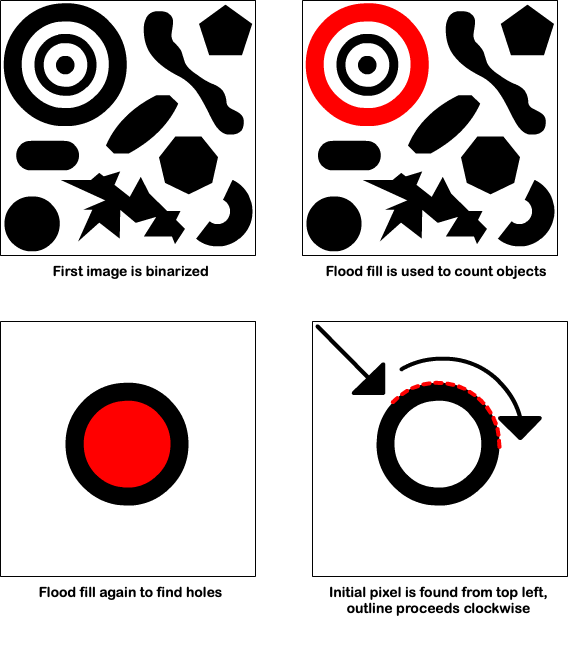
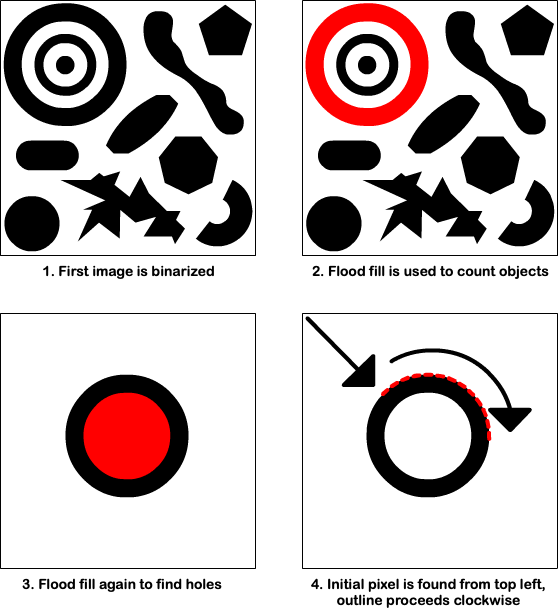
Improved methodology

Changed region(s): [[0.5179, 0.0, 1.0, 0.987], [0.0, 0.0, 0.457, 0.9562], [0.0914, 0.5552, 0.3351, 0.8328]]

diff --git a/README.md b/README.md
@@ -15,11 +15,18 @@ asm.js/wasm live demo: https://stevinz.github.io/extrude-html5/
 1. The image is loaded into a byte array and then binarized based on the alpha channel (with an adjustable tolerance). 
 2. Individual objects are counted using a flood fill algorithm. As an object is found it is removed from original image, this is repeated until there are no pixels remaining. The seperate objects are stored in new arrays sized accordingly, with their original start position also stored.
 3. Holes within each object are found using additional flood fills. 
-4. Polygons are formed by outlining the resulting objects using TraceImageOutline(). It starts at the top left of an image and scans down and to the right until a pixel is hit. It then proceeds, in a clockwise rotation, to the next adjacent pixel found with the smallest angle between that pixel and the current position. 
+4. Polygons are formed by outlining the resulting objects using TraceImageOutline(). It starts at the top left of an image and scans down and to the right until a pixel is hit. It then proceeds, in a clockwise rotation, to the next adjacent pixel found with the smallest angle between that pixel and the current position.  
+
+<br>
+
+<p align="center"><img src="images/method2.png" /></p>
+
 5. The resulting polygon is simplified by reducing points that fall along the same lines using the Ramer-Douglas-Peucker algorithm. 
 6. The simplified polygon, along with the list of holes, is fed into an optimal polygon triangulation algorithm to form the front and back faces. 
 7. Triangles are added betweem the front and back faces to form the sides. 
-8. Boom, 3D!
+8. Boom, 3D!  
+
+<br>
 
 ## Thanks to these libraries used during extrusion:
 
